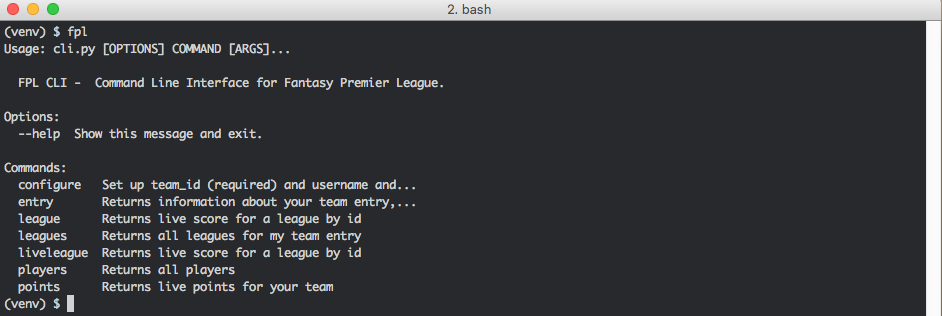
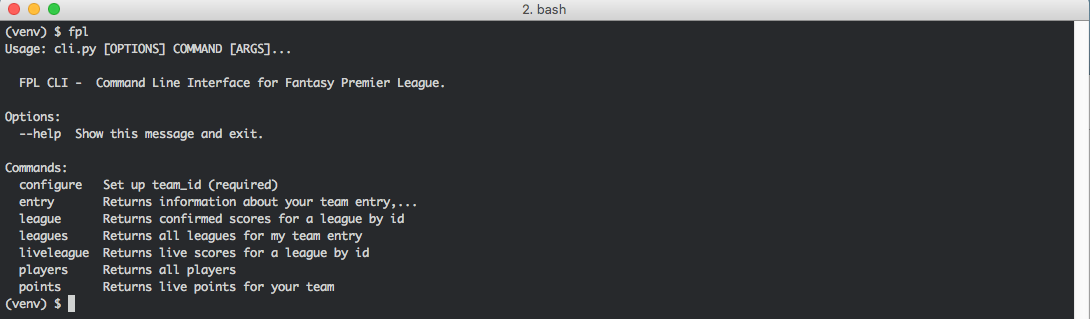
Update fpl help

diff --git a/fplcli/cli.py b/fplcli/cli.py
@@ -52,7 +52,7 @@ def leagues():
 @main.command()
 @click.argument("league_id")
 def league(league_id):
-    """Returns live score for a league by id"""
+    """Returns confirmed scores for a league by id"""
     league = fplapi.league(league_id)
     out(pretty_league(league))
 
@@ -60,7 +60,7 @@ def league(league_id):
 @main.command()
 @click.argument("league_id")
 def liveleague(league_id):
-    """Returns live score for a league by id"""
+    """Returns live scores for a league by id"""
     league = fplapi.live_league(league_id)
     out(pretty_league(league, live=True))
 
@@ -86,12 +86,11 @@ def points():
 @main.command()
 def configure():
     """
-    Set up team_id (required) and username and password (optional).
-    Username and password are required for actions that require authentication
+    Set up team_id (required)
     """
     conf.configure()
-    out("FPL-CLI configured. Now try typing 'fpl' for instructions")
-
+    out("fpl-cli configured. Type 'fpl' for instructions")
+    
 
 if __name__ == '__main__':
     main()
